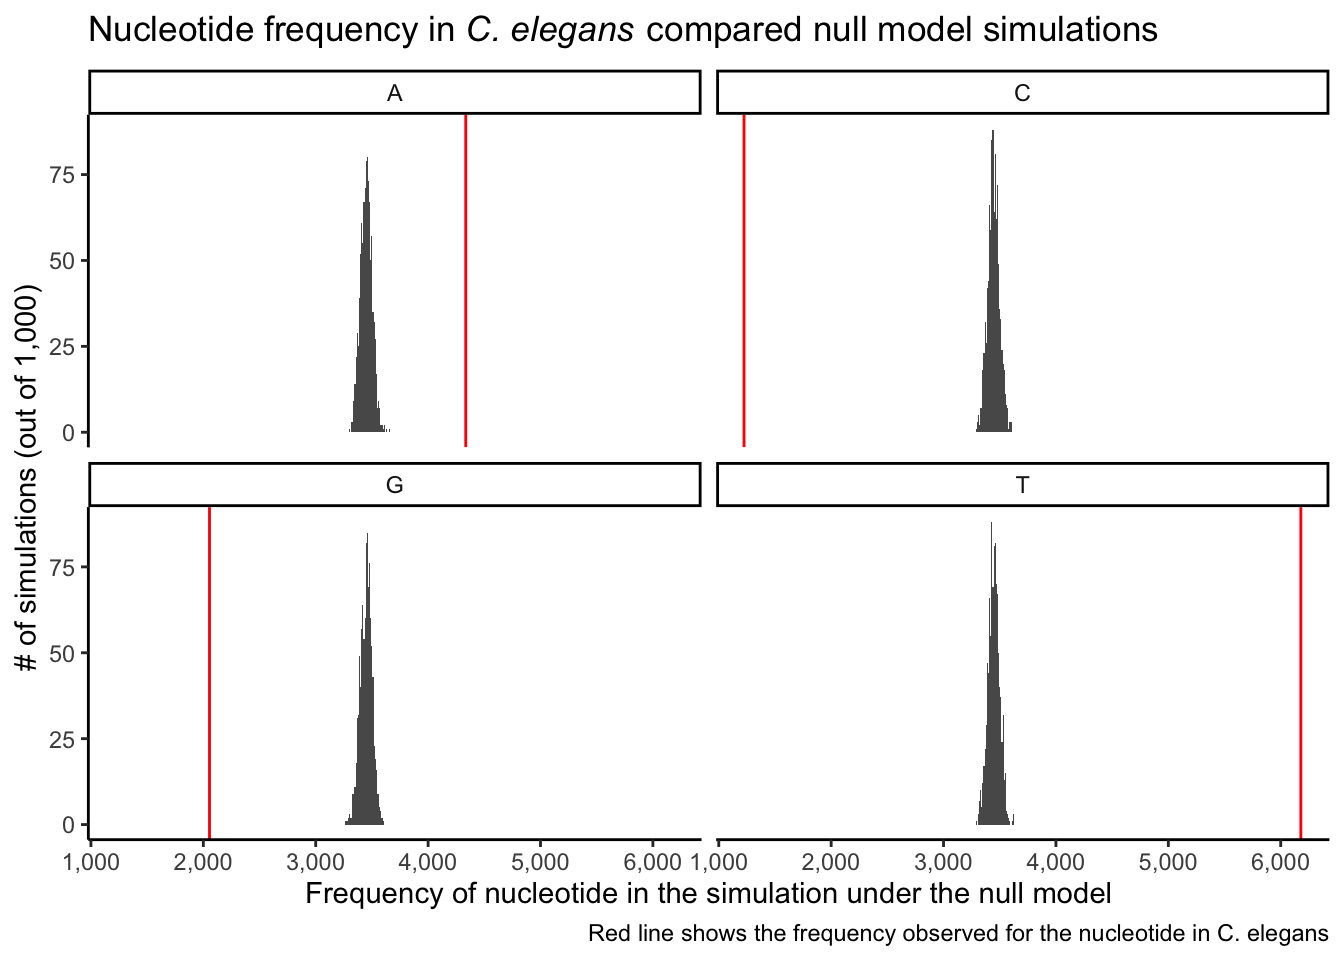
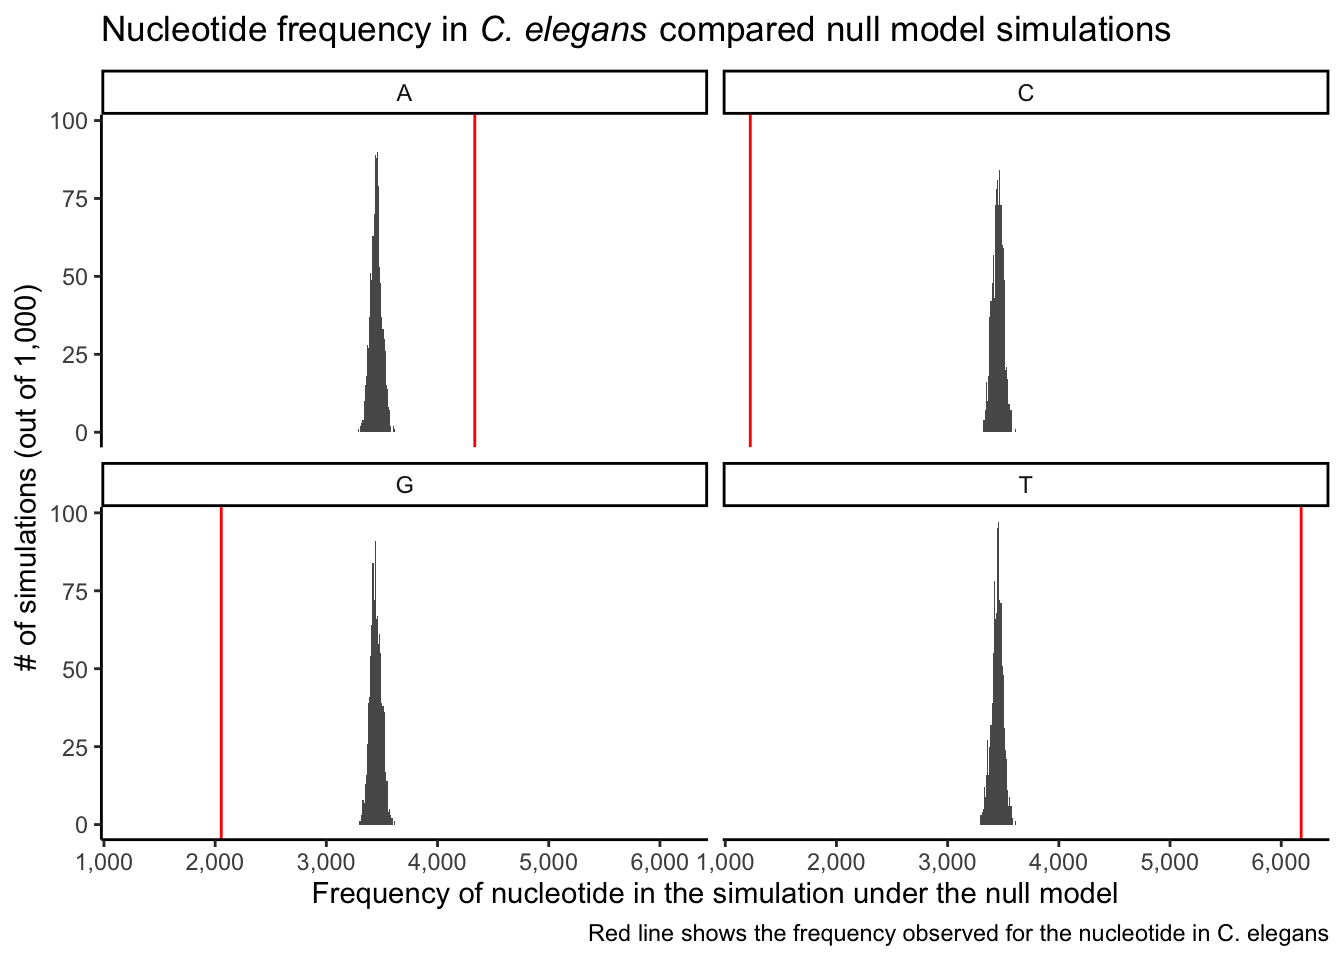
Build with Sere's post

diff --git a/content/post/2020-02-11-exercise-solution-for-chapter-1.html b/content/post/2020-02-11-exercise-solution-for-chapter-1.html
@@ -193,15 +193,15 @@ probability of each nucleotide at each spot on the genome:</p>
                           size = sum(nuc_freq_df$n), 
                           prob = rep(1 / 4, 4)))</code></pre>
 <pre><code>##      [,1] [,2] [,3] [,4] [,5] [,6] [,7] [,8] [,9] [,10] [,11] [,12] [,13] [,14]
-## [1,] 3498 3373 3355 3470 3428 3480 3346 3449 3476  3460  3504  3426  3380  3499
-## [2,] 3493 3489 3479 3479 3487 3414 3509 3410 3430  3454  3428  3451  3401  3436
-## [3,] 3367 3447 3501 3483 3394 3473 3433 3473 3406  3446  3444  3518  3534  3399
-## [4,] 3436 3485 3459 3362 3485 3427 3506 3462 3482  3434  3418  3399  3479  3460
+## [1,] 3442 3437 3510 3402 3484 3451 3484 3459 3462  3468  3482  3425  3388  3479
+## [2,] 3478 3485 3427 3452 3436 3489 3390 3482 3353  3423  3436  3485  3490  3469
+## [3,] 3425 3479 3411 3498 3471 3398 3471 3436 3477  3461  3392  3427  3485  3367
+## [4,] 3449 3393 3446 3442 3403 3456 3449 3417 3502  3442  3484  3457  3431  3479
 ##      [,15] [,16] [,17] [,18] [,19] [,20]
-## [1,]  3352  3613  3469  3506  3443  3379
-## [2,]  3463  3407  3355  3419  3431  3481
-## [3,]  3500  3337  3496  3380  3497  3479
-## [4,]  3479  3437  3474  3489  3423  3455</code></pre>
+## [1,]  3413  3423  3426  3482  3429  3429
+## [2,]  3483  3466  3405  3415  3342  3393
+## [3,]  3429  3506  3461  3410  3510  3493
+## [4,]  3469  3399  3502  3487  3513  3479</code></pre>
 <p>Next, I moved this into a tibble so I could more easily rearrange and plot the data using
 facetting in <code>ggplot2</code>:</p>
 <pre class="r"><code>sim_nuc_freq_df &lt;- as_tibble(sim_nuc_freq) %&gt;% 
@@ -215,16 +215,16 @@ sim_nuc_freq_df %&gt;%
 <pre><code>## # A tibble: 10 x 3
 ##    nucleotide sample value
 ##    &lt;chr&gt;       &lt;dbl&gt; &lt;int&gt;
-##  1 A               1  3498
-##  2 C               1  3493
-##  3 G               1  3367
-##  4 T               1  3436
-##  5 A               2  3373
-##  6 C               2  3489
-##  7 G               2  3447
-##  8 T               2  3485
-##  9 A               3  3355
-## 10 C               3  3479</code></pre>
+##  1 A               1  3442
+##  2 C               1  3478
+##  3 G               1  3425
+##  4 T               1  3449
+##  5 A               2  3437
+##  6 C               2  3485
+##  7 G               2  3479
+##  8 T               2  3393
+##  9 A               3  3510
+## 10 C               3  3427</code></pre>
 <pre class="r"><code>ggplot(sim_nuc_freq_df, aes(x = nucleotide, y = value)) + 
   geom_col(fill = &quot;lavender&quot;, color = &quot;black&quot;) + 
   theme_classic() + 
@@ -254,16 +254,16 @@ sim_nuc_freq_df %&gt;%
 <pre><code>## # A tibble: 10 x 3
 ##    nucleotide sample value
 ##    &lt;chr&gt;       &lt;dbl&gt; &lt;int&gt;
-##  1 A               1  3466
-##  2 C               1  3423
-##  3 G               1  3466
-##  4 T               1  3439
-##  5 A               2  3441
-##  6 C               2  3533
-##  7 G               2  3412
-##  8 T               2  3408
-##  9 A               3  3503
-## 10 C               3  3408</code></pre>
+##  1 A               1  3499
+##  2 C               1  3502
+##  3 G               1  3433
+##  4 T               1  3360
+##  5 A               2  3520
+##  6 C               2  3431
+##  7 G               2  3401
+##  8 T               2  3442
+##  9 A               3  3451
+## 10 C               3  3498</code></pre>
 <p>Using this dataframe of simulations, we can measure the mean, minimum, and maximum frequencies
 of each nucleotide across all 1,000 simulations:</p>
 <pre class="r"><code>(sim_summary &lt;- sim_nuc_freq_df %&gt;% 
@@ -274,10 +274,10 @@ of each nucleotide across all 1,000 simulations:</p>
 <pre><code>## # A tibble: 4 x 4
 ##   nucleotide mean_freq min_freq max_freq
 ##   &lt;chr&gt;          &lt;dbl&gt;    &lt;int&gt;    &lt;int&gt;
-## 1 A              3451.     3305     3656
-## 2 C              3446.     3291     3605
-## 3 G              3448.     3274     3602
-## 4 T              3448.     3291     3623</code></pre>
+## 1 A              3449.     3289     3613
+## 2 C              3452.     3316     3607
+## 3 G              3446.     3301     3613
+## 4 T              3447.     3301     3610</code></pre>
 <p>To help compare this with the observed data, we can create a table with information from
 both the original data and the simulations under the null model:</p>
 <pre class="r"><code>nuc_freq_df %&gt;% 
@@ -302,22 +302,22 @@ both the original data and the simulations under the null model:</p>
 <tr class="odd">
 <td align="center">A</td>
 <td align="center">4,335</td>
-<td align="center">3,451 (3,305, 3,656)</td>
+<td align="center">3,449 (3,289, 3,613)</td>
 </tr>
 <tr class="even">
 <td align="center">C</td>
 <td align="center">1,225</td>
-<td align="center">3,446 (3,291, 3,605)</td>
+<td align="center">3,452 (3,316, 3,607)</td>
 </tr>
 <tr class="odd">
 <td align="center">G</td>
 <td align="center">2,055</td>
-<td align="center">3,448 (3,274, 3,602)</td>
+<td align="center">3,446 (3,301, 3,613)</td>
 </tr>
 <tr class="even">
 <td align="center">T</td>
 <td align="center">6,179</td>
-<td align="center">3,448 (3,291, 3,623)</td>
+<td align="center">3,447 (3,301, 3,610)</td>
 </tr>
 </tbody>
 </table>
@@ -367,11 +367,11 @@ sim_stat %&gt;%
 <pre><code>## # A tibble: 5 x 2
 ##   sample variability_stat
 ##    &lt;dbl&gt;            &lt;dbl&gt;
-## 1      1            0.392
-## 2      2            2.95 
-## 3      3            1.56 
-## 4      4            2.58 
-## 5      5            1.27</code></pre>
+## 1      1            3.91 
+## 2      2            2.24 
+## 3      3            1.13 
+## 4      4            0.182
+## 5      5            2.34</code></pre>
 <p>Here is a plot of the distribution of this statistic across the 1,000 simulations:</p>
 <pre class="r"><code>ggplot(sim_stat, aes(x = variability_stat)) + 
   geom_rect(data = sim_stat, aes(xmin = quantile(variability_stat, prob = 0.025),
